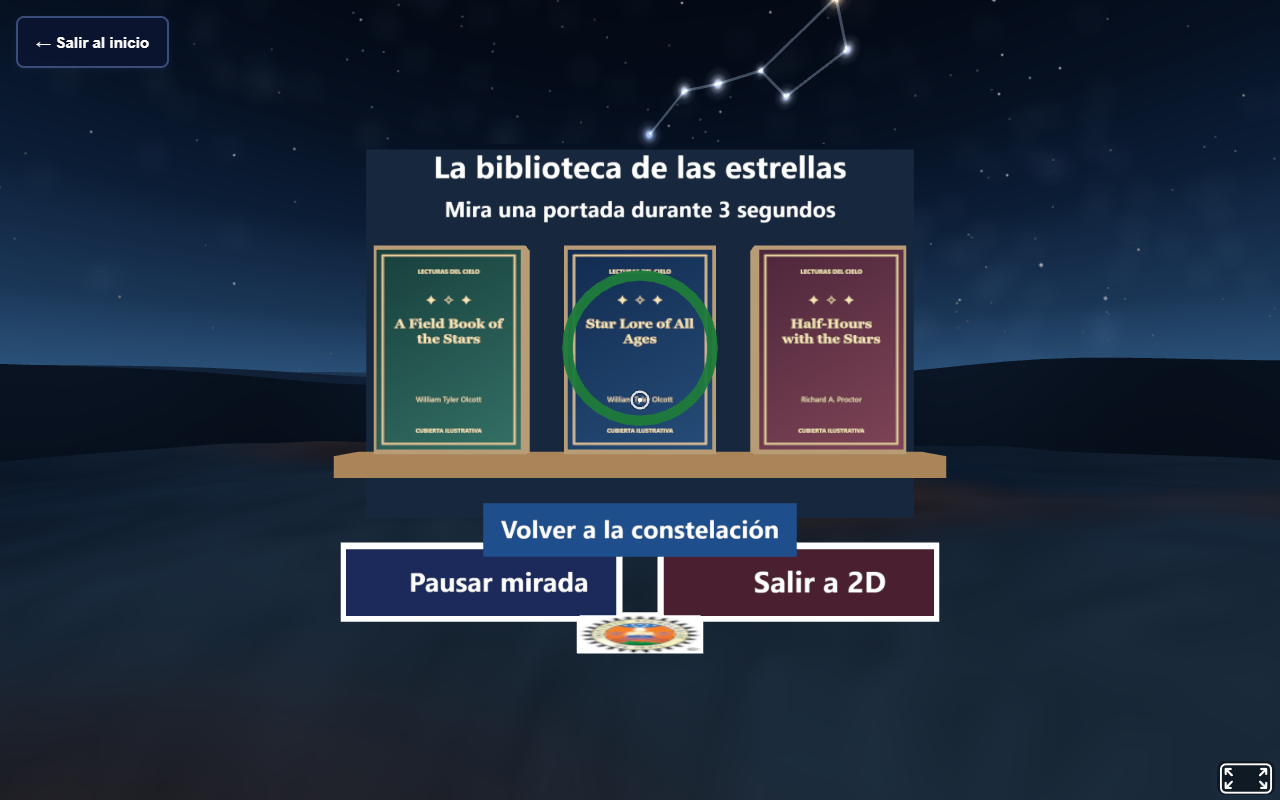
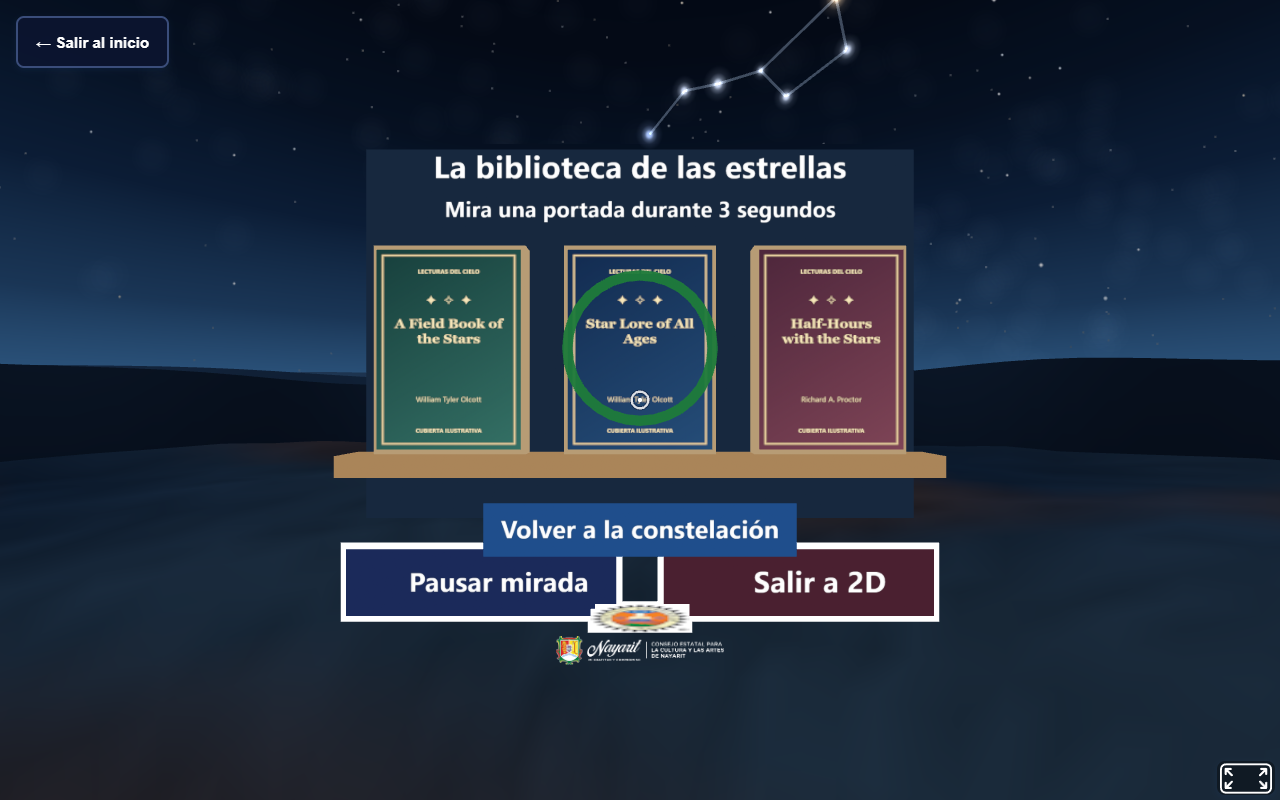
docs(qa): actualizar capturas de auditoria visual con logotipos y evidencia T01-T25 (S5-04)

Changed region(s): [[0.4375, 0.75, 0.5625, 0.8438]]

diff --git a/astrovisor-s1-inicio/docs/PRUEBA-S5-EVIDENCIA-T01-T25.md b/astrovisor-s1-inicio/docs/PRUEBA-S5-EVIDENCIA-T01-T25.md
@@ -30,7 +30,7 @@ A continuación se registra el resultado real obtenido en cada caso de prueba de
 | **T01** | Desde `/`, las tres tarjetas principales se identifican de inmediato; los manuales se ubican debajo sin sustituir la navegación primaria. | **PASA** | Verificado en `InicioView.vue` y prueba `inicio-portal-s5.test.js`. Grid accesible de 3 columnas (`#tarjeta-explorar`, `#tarjeta-vr`, `#tarjeta-admin`) precedido por enlace de salto de foco (`#main-content`). |
 | **T02** | «Explorar en pantalla» abre `/explorar` y permite visitar ficha/libros, regresar y alternar vista de proyección sin regresiones. | **PASA** | Enrutador Vue activo, preservación de `ExplorarView.vue`, `BibliotecaView.vue` y estilos `.proyeccion-activa`. Cobertura en `catalogo-integracion.test.js`. |
 | **T03** | «Pantalla completa · mouse o dedo» entra en cielo 3D no dividido mediante `/prueba-homido/index.html?modo=libre` sin pantallas intermedias. | **PASA** | `prueba.js` detecta `params.get('modo') === 'libre'`, oculta paneles técnicos (`modo-directo`), inicia canvas a pantalla completa y añade botón de retorno visible `#directExitBtn`. |
-| **T04** | «Visor Homido · pantalla dividida» entra en cielo estereoscópico directo mediante `/prueba-homido/index.html?modo=homido`. | **PASA** | Parámetro `modo=homido` activa vista VR dual sin requerir interacción en páginas de diagnóstico técnicas previas. Incluye botón flotante directo `#btnActivarInmersion` con solicitud de permisos de orientación ejecutada síncronamente en el gesto del usuario (sin `await` previo para preservar User Gesture en WebKit/Safari), comprobación independiente de pantalla completa, orientación y audio, persistencia del botón si faltan condiciones (no se oculta solo por pantalla completa) y soporte de reintento dinámico sin bloquear la escena 3D. |
+| **T04** | «Visor Homido · pantalla dividida» entra en cielo estereoscópico directo mediante `/prueba-homido/index.html?modo=homido`. | **PASA** | Parámetro `modo=homido` activa vista VR dual sin requerir interacción en páginas de diagnóstico técnicas previas. Incluye botón flotante directo `#btnActivarInmersion` con solicitud de permisos de orientación ejecutada síncronamente en el gesto del usuario (sin `await` previo para preservar User Gesture en WebKit/Safari), comprobación independiente de pantalla completa, orientación y audio real del reproductor (sincronizado con `narrador` de `narraciones.js` mediante el evento `astrovisor:narracion` y sin AudioContext ficticio), persistencia del botón si faltan condiciones (no se oculta solo por pantalla completa) y soporte de reintento dinámico sin bloquear la escena 3D. |
 | **T05** | «Administrador» abre `/admin` si hay sesión activa; redirige a login si no hay token; operaciones protegidas requieren autorización HTTP. | **PASA** | Verificado con `auth.test.js`. Redirección y bloqueo de tokens nulos o expirados con códigos 401/403. |
 | **T06** | Entrada directa por URL, recarga, botón atrás y enlaces históricos no provocan bucle ni pantallas técnicas intermedias en el flujo público. | **PASA** | Parámetros de URL se analizan sincrónicamente en carga (`DOMContentLoaded`). Modos directos limpios; acceso sin parámetro `modo` asume `modo=libre` como fallback de compatibilidad según OpenSpec salvo que se indique explícitamente `?diag=1`. |
 
